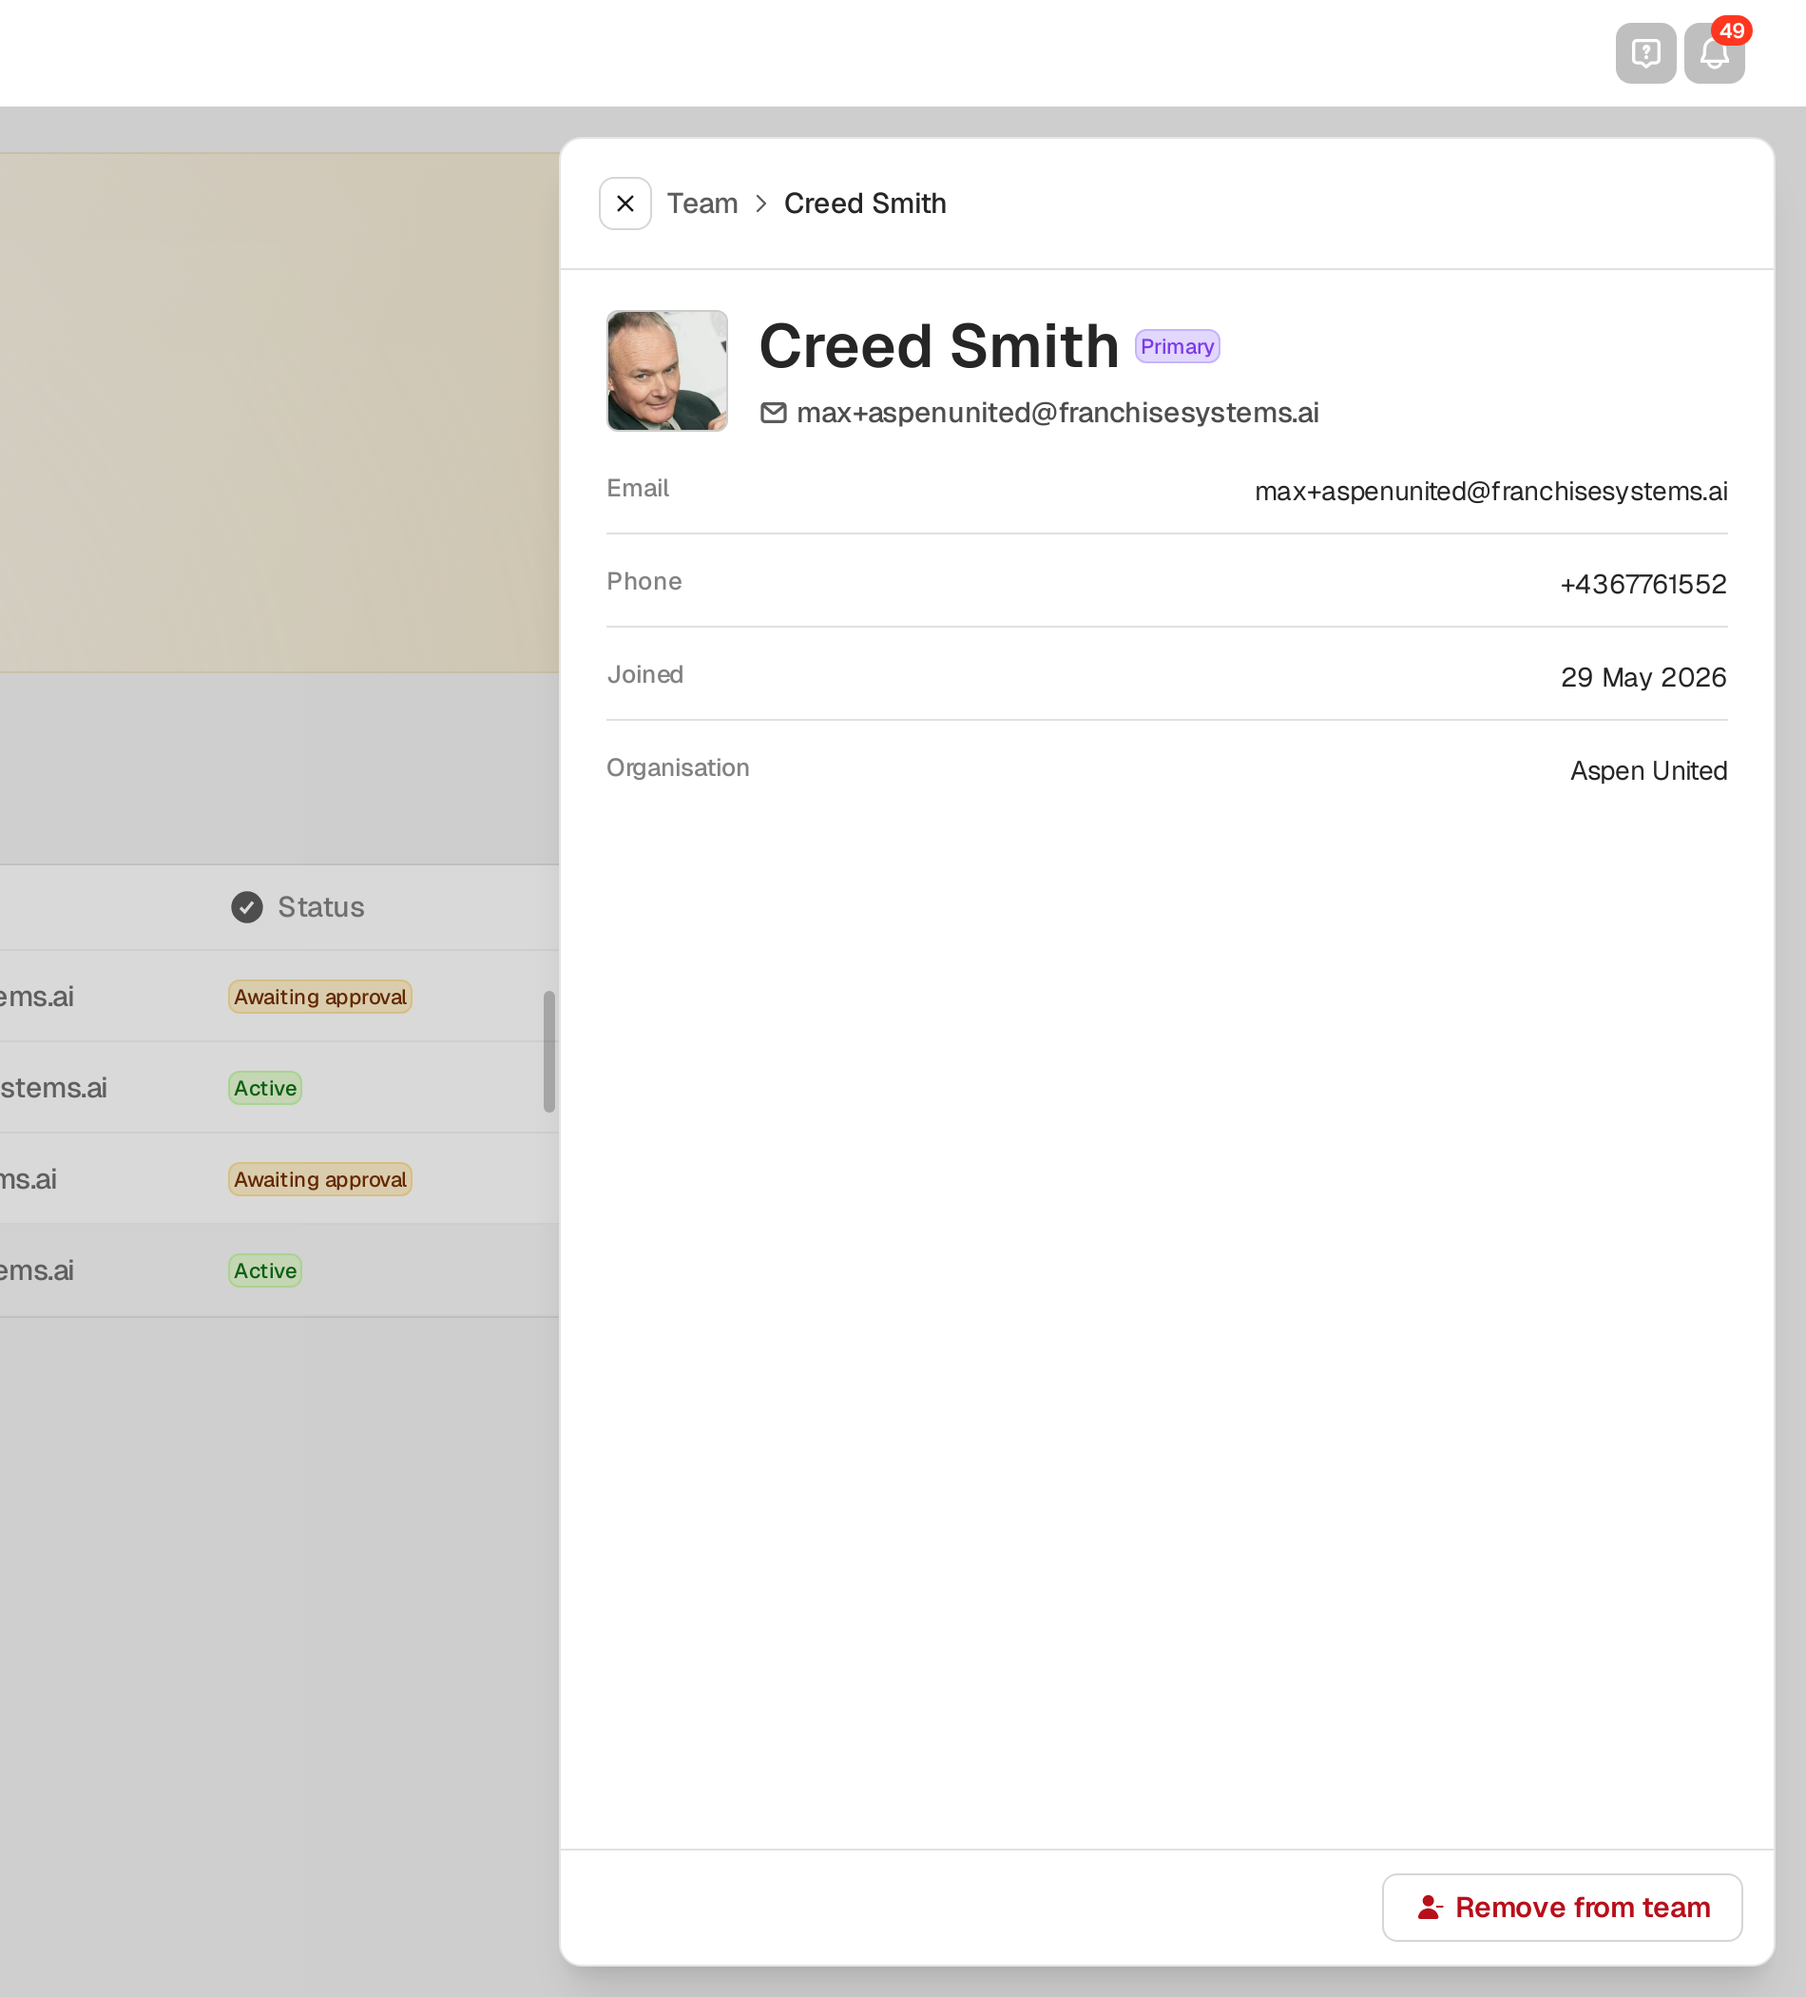
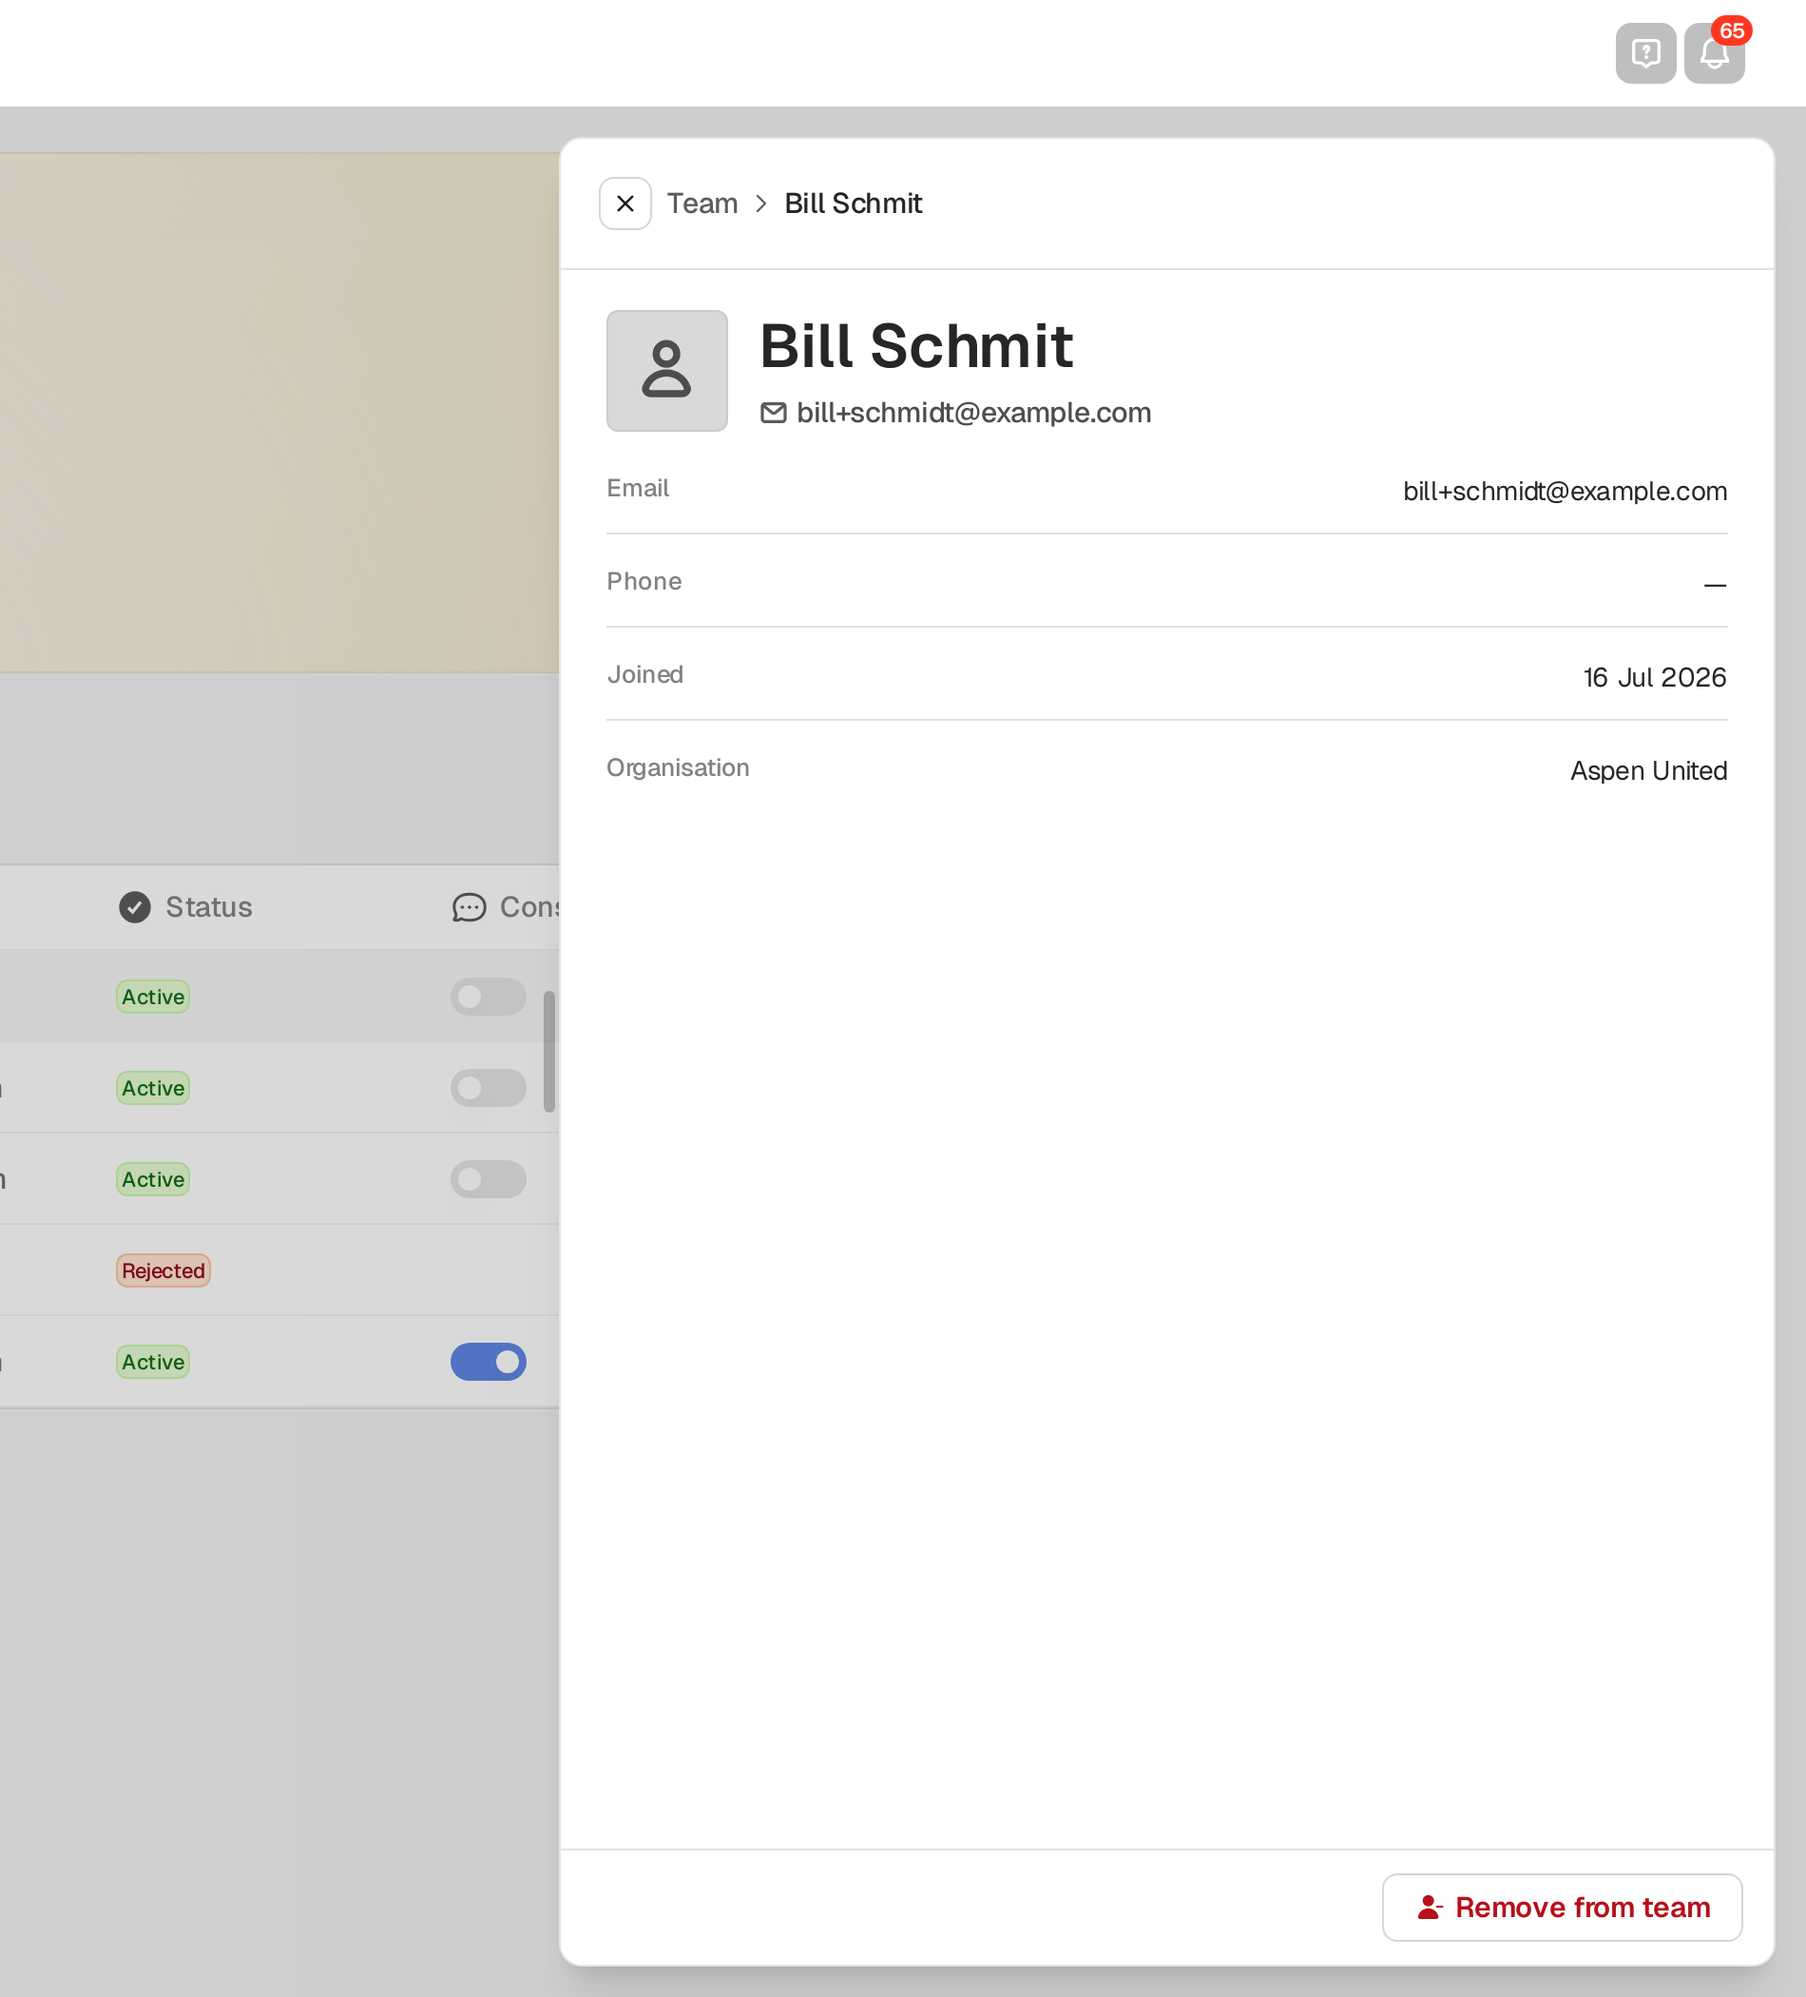
Reshoot 2 drifted shots: team-member-detail, assets-collection
DOM drift audit flagged 3 shots needing reshoot. Portal login page lost
its label->input association, so session.js's portal login() timed out
on getByLabel('Password')/button name 'Login' — patched to select the
password field by input[type="password"] and the submit button by a
/login/i name regex.

Reshot via the studio replace endpoint (mode: keep, dimensions unchanged):
- 08-team-and-roles/team-member-detail.png: now shows a non-Primary team
  member (Bill Schmit) so "Remove from team" is visible, matching current
  behavior (Primary members no longer show it).
- 12-assets/assets-collection.png: now shows the new "Grid size" numeric
  selector next to the Grid/List toggle.

00-creating-your-account/account-signup-form.png reshoot was attempted but
the studio replace endpoint 409'd (human-owned doc, Max mid-edit) — left
uncommitted per the no-touch rule.

Claude-Session: https://claude.ai/code/session_017h2NLjqsD6yihH2PaHJ5UG

diff --git a/scripts/capture/session.js b/scripts/capture/session.js
@@ -95,9 +95,9 @@ const SURFACES = {
       await page.goto(baseUrl, { waitUntil: 'domcontentloaded' });
       await page.waitForTimeout(3000);
       await page.getByPlaceholder('Email address').fill(email);
-      await page.getByLabel('Password').fill(password);
+      await page.locator('input[type="password"]').fill(password);
       await page.waitForTimeout(400);
-      await page.getByRole('button', { name: 'Login' }).click();
+      await page.getByRole('button', { name: /login/i }).click();
       await page.waitForTimeout(6000);
     },
   },
